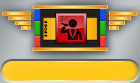
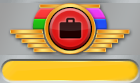
Update Kingpin award.

diff --git a/tests/awards/underworld/Kingpin.spec.ts b/tests/awards/underworld/Kingpin.spec.ts
@@ -1,34 +1,50 @@
 import {expect} from 'chai';
+import {testGame} from '../../TestGame';
 import {Kingpin} from '../../../src/server/awards/underworld/Kingpin';
 import {fakeCard} from '../../TestingUtils';
-import {testGame} from '../../TestGame';
+import {Tag} from '../../../src/common/cards/Tag';
+import {TestPlayer} from '../../TestPlayer';
+import {CardType} from '../../../src/common/cards/CardType';
 
 describe('Kingpin', () => {
-  it('Correctly counts ocean tiles', () => {
-    const award = new Kingpin();
-    const [/* game */, player/* , player2 */] = testGame(2, {underworldExpansion: true});
+  let award: Kingpin;
+  let player: TestPlayer;
 
+  beforeEach(() => {
+    award = new Kingpin();
+    [/* game */, player] = testGame(2);
+  });
 
+  it('Counts tags', () => {
     expect(award.getScore(player)).to.eq(0);
 
-    player.playedCards.push(fakeCard());
-
-    expect(award.getScore(player)).to.eq(0);
-
-    player.playedCards.push(fakeCard({requirements: [{corruption: 0}]}));
-
-    expect(award.getScore(player)).to.eq(0);
-
-    player.playedCards.push(fakeCard({requirements: [{corruption: 2}]}));
-
+    player.playedCards.push(fakeCard({tags: [Tag.CRIME]}));
     expect(award.getScore(player)).to.eq(1);
 
-    player.playedCards.push(fakeCard({requirements: [{corruption: 1}]}));
-
+    player.playedCards.push(fakeCard({tags: [Tag.CRIME]}));
     expect(award.getScore(player)).to.eq(2);
 
-    player.playedCards.push(fakeCard({requirements: [{oceans: 1}]}));
+    player.playedCards.push(fakeCard({tags: [Tag.EARTH]}));
+    expect(award.getScore(player)).to.eq(2);
+  });
 
+  it('Does not count wild tags', () => {
+    expect(award.getScore(player)).to.eq(0);
+
+    player.playedCards.push(fakeCard({tags: [Tag.CRIME, Tag.BUILDING]}));
+    expect(award.getScore(player)).to.eq(1);
+
+    player.playedCards.push(fakeCard({tags: [Tag.WILD]}));
+    expect(award.getScore(player)).to.eq(1);
+  });
+
+  it('Counts events', () => {
+    expect(award.getScore(player)).to.eq(0);
+
+    player.playedCards.push(fakeCard({tags: [Tag.CRIME, Tag.BUILDING]}));
+    expect(award.getScore(player)).to.eq(1);
+
+    player.playedCards.push(fakeCard({tags: [Tag.CRIME, Tag.BUILDING], type: CardType.EVENT}));
     expect(award.getScore(player)).to.eq(2);
   });
 });

diff --git a/src/server/awards/underworld/Kingpin.ts b/src/server/awards/underworld/Kingpin.ts
@@ -1,12 +1,11 @@
 import {IAward} from '../IAward';
 import {IPlayer} from '../../IPlayer';
+import {Tag} from '../../../common/cards/Tag';
 
 export class Kingpin implements IAward {
   public readonly name = 'Kingpin';
-  public readonly description = 'Play the highest number of cards with a corruption requirement of at least 1. (Event cards count)';
+  public readonly description = 'Have the most crime tags. (Event cards count)';
   public getScore(player: IPlayer): number {
-    return player.playedCards
-      .filter((card) => card.requirements
-        .some((requirement) => (requirement.corruption ?? 0) > 0)).length;
+    return player.tags.count(Tag.CRIME, 'raw-underworld');
   }
 }

diff --git a/tests/awards/modular/Electrician.spec.ts b/tests/awards/modular/Electrician.spec.ts
@@ -28,7 +28,7 @@ describe('Electrician', () => {
     expect(award.getScore(player)).to.eq(2);
   });
 
-  it('Does count wild tags', () => {
+  it('Does not count wild tags', () => {
     expect(award.getScore(player)).to.eq(0);
 
     player.playedCards.push(fakeCard({tags: [Tag.POWER, Tag.BUILDING]}));
